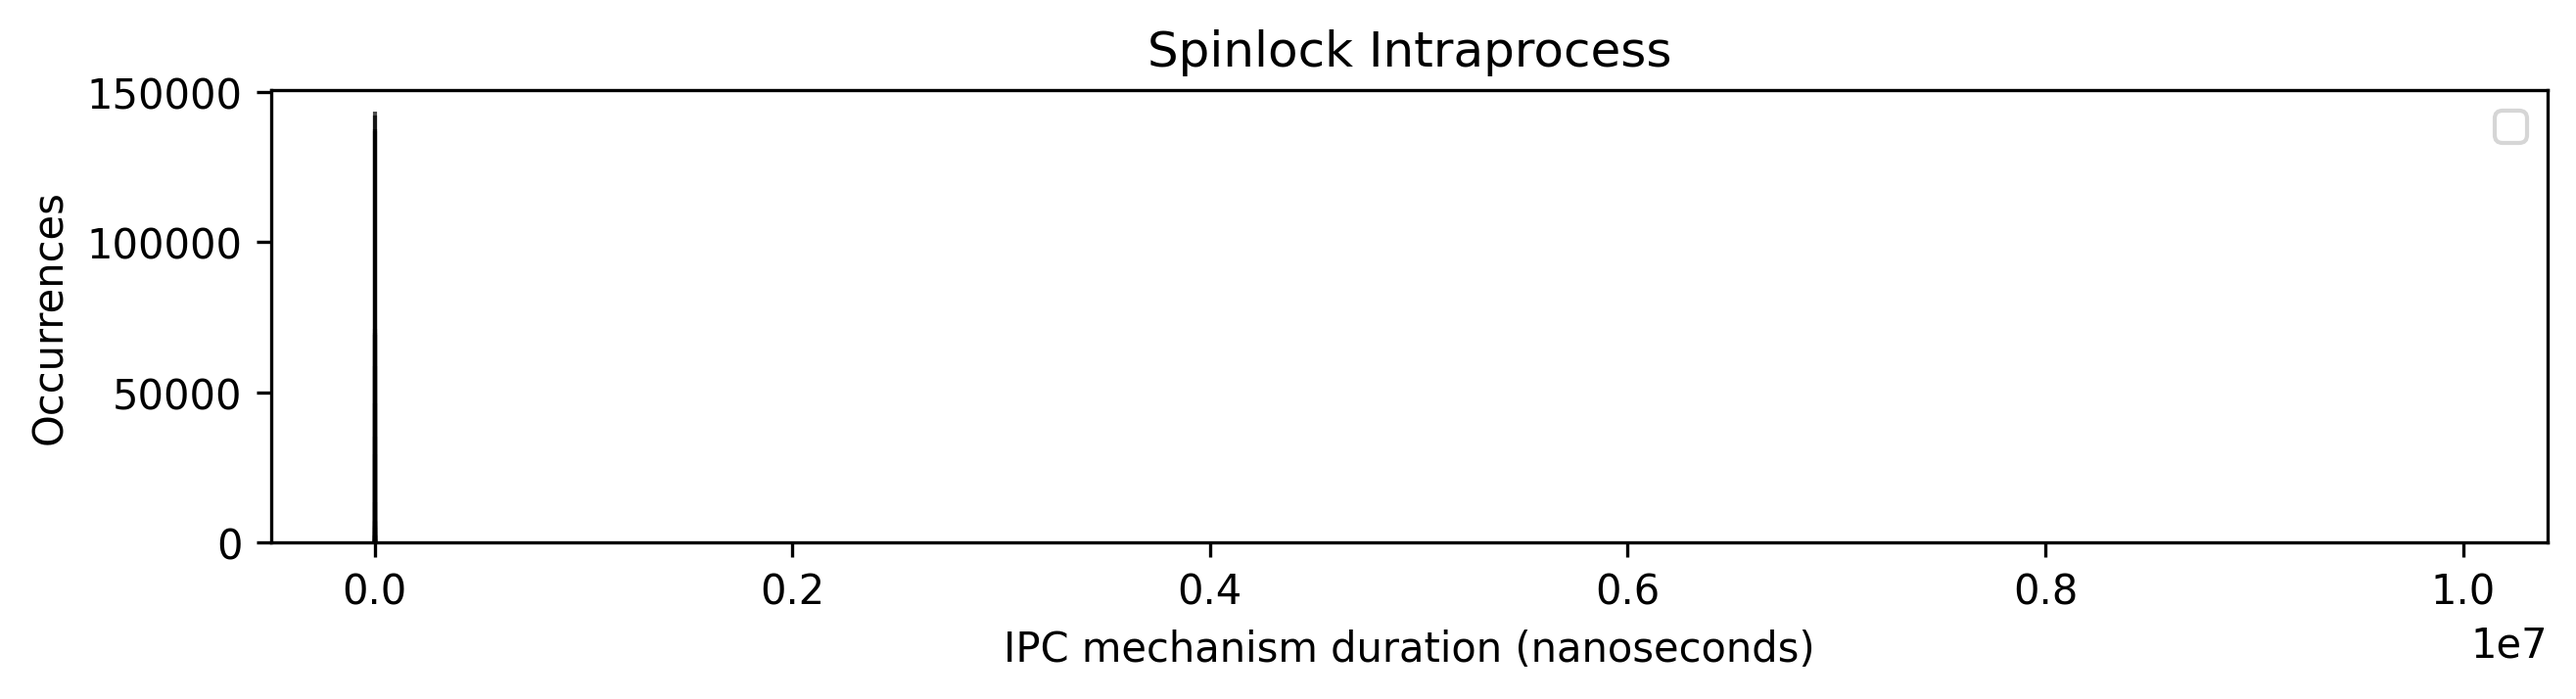
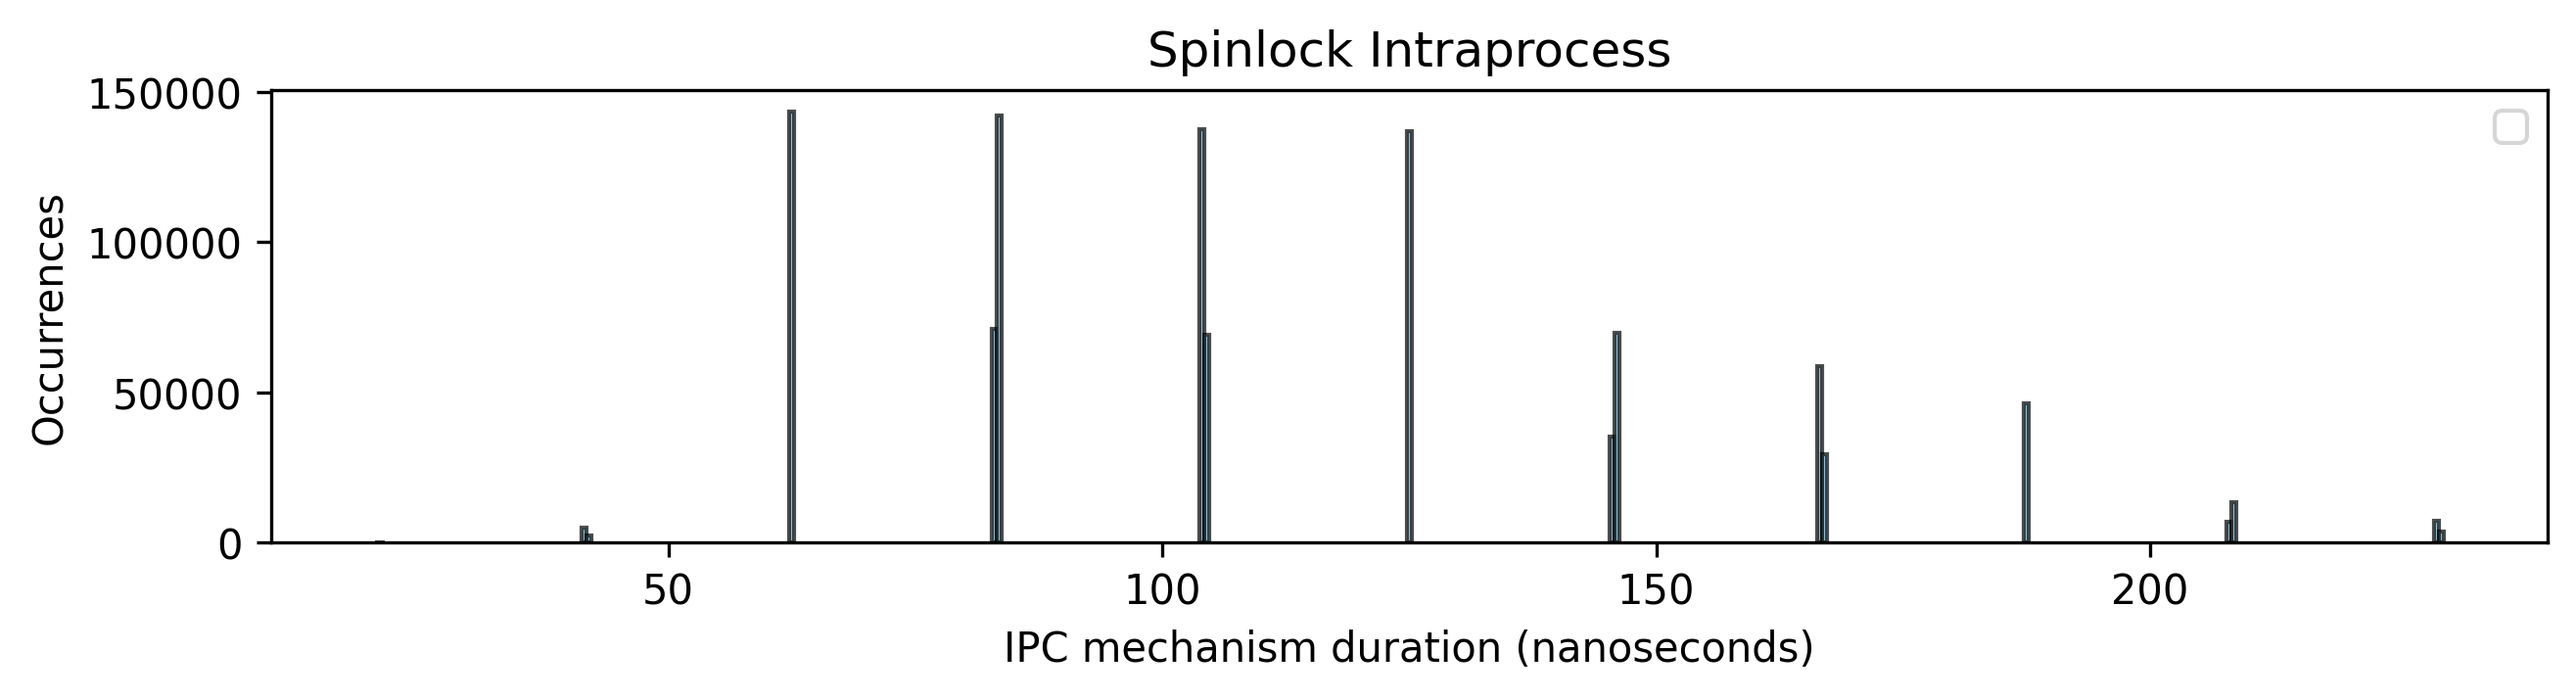
Update experiment result graphs

diff --git a/OS2_Analysis/analysis.py b/OS2_Analysis/analysis.py
@@ -16,7 +16,7 @@ def analyze_data(file_name, experiment_name):
     data = [x/2 for x in data]
 
 
-    #data, indices = remove_outliers_iqr(data, indices)
+    data, indices = remove_outliers_iqr(data, indices)
 
 
 
